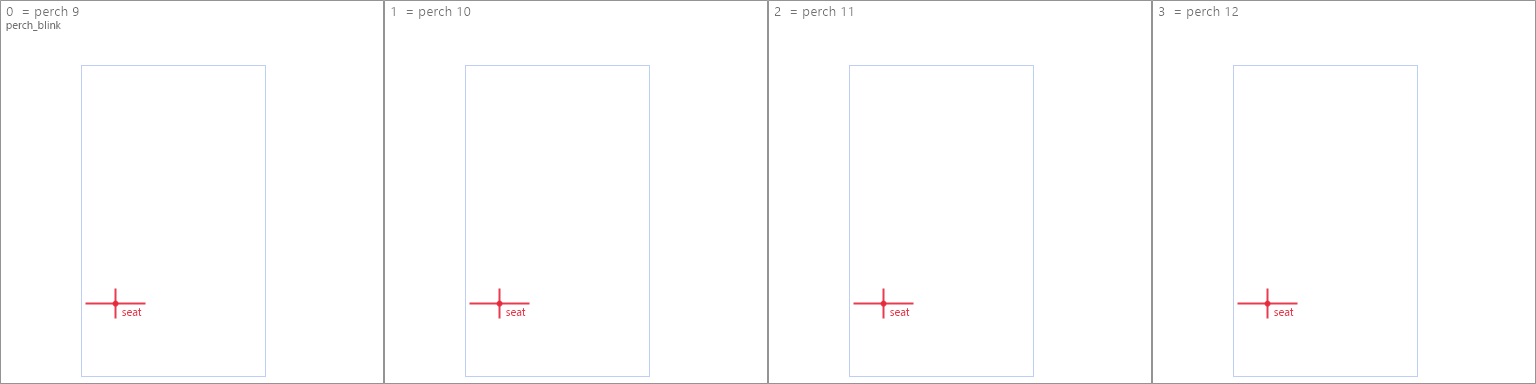
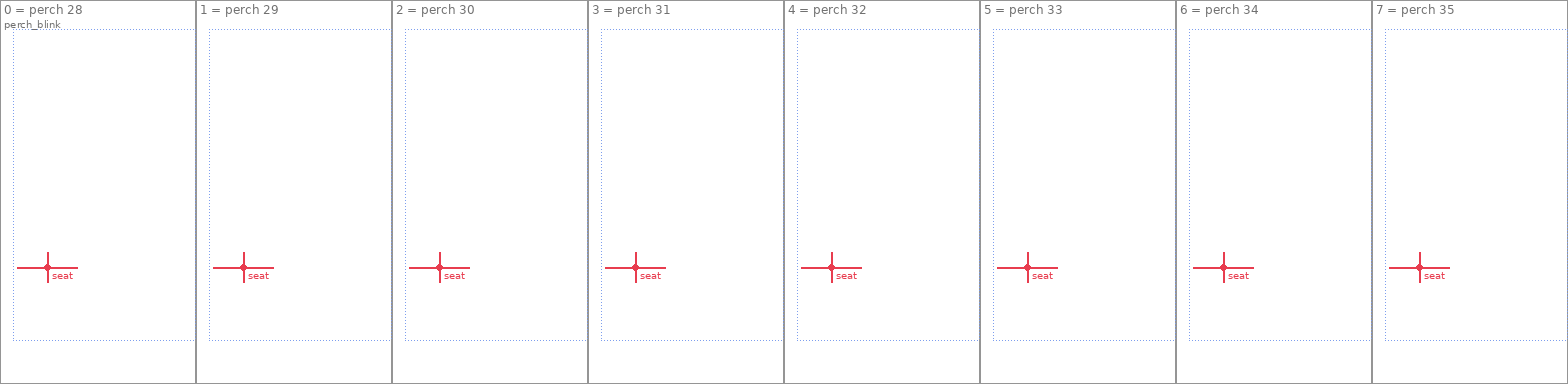
Update Lucy docs and templates for capri-desktop 0.7.6
- personality.md, NOTES.md, HOW-IT-WORKS.md: personality.md and the
  Edit personality button are gone; her prompt is DefaultPersonality +
  Safety + Machinery in Brain.cs, and the smoke test's persona checks
  are noted for later
- lines.md: the canned Safety replies are gone (Lucy's versions kept
  for reference), new line locations, and the "Hey Capri" wake word
- ART.md, make-templates.ps1, templates: the new 60-frame perch with
  196/288 px cells and the shifted seat, plus a perch_music template

Claude-Session: https://claude.ai/code/session_016z7QohCTLH7PneLTuhUzMm

diff --git a/characters/lucy/ART.md b/characters/lucy/ART.md
@@ -1,6 +1,6 @@
 # Drawing Lucy
 
-Everything the app needs from her art, measured from capri-desktop 0.7.4. Check it again after big updates (new animations may appear).
+Everything the app needs from her art, measured from capri-desktop 0.7.6. Check it again after big updates (new animations may appear).
 
 ## Using the templates
 
@@ -20,7 +20,7 @@ Hide both helper layers before exporting. Export as PNG with a transparent backg
 | --- | --- | --- |
 | Gray box | One frame. Every frame in a sheet is the same size, side by side in one row | Yes |
 | Red line, **feet** (standing) | Her feet touch this line (y 362 of 384) | Yes, or she floats/sinks when standing on windows |
-| Red cross, **seat** (perch) | The point that sits on a window edge (115, 303 of 384×384) | Yes, or she floats/sinks when sitting |
+| Red cross, **seat** (perch) | The point that sits on a window edge. Its spot in the frame depends on the frame width (see Sitting frames below) | Yes, or she floats/sinks when sitting |
 | Cyan dashes | Center of the frame. Keep her roughly centered | Roughly |
 | Blue dots | Where you can click and grab her | Roughly, can be adjusted in code |
 | Orange box (idle, mouth) | Where **Capri's** mouth is | No, just a hint. Lucy's mouth goes wherever her face is |
@@ -31,7 +31,7 @@ Hair, effects or a raised arm may go outside the blue box, but stay inside the g
 
 ## The animations
 
-Standing frames are 240×384, sitting (`perch_*`) frames are 384×384. fps = frames per second.
+Standing frames are 240×384. Sitting (`perch_*`) frames are 196×384 or 288×384, see the table. fps = frames per second.
 
 | File | Frames | fps | What it is | Must match |
 | --- | --- | --- | --- | --- |
@@ -47,15 +47,29 @@ Standing frames are 240×384, sitting (`perch_*`) frames are 384×384. fps = fra
 | `walk` | 12 | 12 | Walking along a window | Feet line, loops |
 | `arrive` | 14 | 15 | Appearing | Ends close to idle |
 | `leave` | 12 | 15 | Disappearing | Starts close to idle |
-| `perch` | 16 | 8 | Sitting on a window edge | Seat point |
-| `perch_blink` | 4 | 8 | Blink while sitting | Frame 0–3 = perch 9–12 with eyes closing |
-| `perch_blink_glitch` | 4 | 8 | Glitchy blink while sitting | Same as perch_blink |
-| `perch_glitch` | 10 | 15 | Glitch while sitting | Seat point |
-| `perch_arrive` | 14 | 15 | Appearing onto a ledge | Ends close to perch |
-| `perch_leave` | 12 | 15 | Disappearing from a ledge | Starts close to perch |
+| `perch` | 60 | 30 | Sitting on a window edge, 196 px frames | Seat point |
+| `perch_blink` | 8 | 30 | Blink while sitting, 196 px frames | Frame 0–7 = perch 28–35 with eyes closing |
+| `perch_blink_glitch` | 8 | 30 | Glitchy blink while sitting, 196 px frames | Same as perch_blink |
+| `perch_music` | 60 | 30 | Swaying to music while sitting, 196 px frames. The app adds a beat nod on top | Seat point, loops |
+| `perch_glitch` | 10 | 15 | Glitch while sitting, 288 px frames | Seat point |
+| `perch_arrive` | 14 | 15 | Appearing onto a ledge, 288 px frames | Ends close to perch |
+| `perch_leave` | 12 | 15 | Disappearing from a ledge, 288 px frames | Starts close to perch |
 | `face` | 1 | – | 400×400 portrait, shown when she takes over an app | Square |
 
-Not needed: `dance.png` and `perch_dance.png`. The app dances by reusing idle and perch.
+Not needed: `dance.png`. The app dances standing by reusing idle. (`perch_dance.png` is gone since 0.7.6; `perch_music` replaced it.)
+
+### Sitting frames (since 0.7.6)
+
+Capri's perch is now 60 smooth frames by her artist, so 16 frames at 8 fps became 60 at 30 fps. The perch frames are also cut narrower than her 384×384 square: each frame's middle sits 26 px left of the square's middle, and its top 36 px below the square's top (`PerchShiftX`, `PerchShiftY` in `app/Capri.cs`). That gives two frame widths with the seat in a different spot:
+
+| Frame width | Sheets | Seat (x, y in the frame) |
+| --- | --- | --- |
+| 196 | `perch`, `perch_blink`, `perch_blink_glitch`, `perch_music` | 47, 267 |
+| 288 | `perch_glitch`, `perch_arrive`, `perch_leave` | 93, 267 |
+
+The templates already draw this, so just follow the red cross. If 60 frames is too much to draw, Lucy's perch can use fewer: change the count and fps in `new Clip("perch", …)` and `PerchBlinkFrom` (the perch frame where the blink starts, 28 now). Her smoke test checks Capri's numbers, so it needs the same change.
+
+**Facing left (optional):** the app can show separate facing-left perch frames, named like `perch_flipped.png` with the same size, for art that doesn't mirror well (Capri's red arm and leg swap sides). Without them it just mirrors. Lucy probably doesn't need them.
 
 Frame counts and fps can change: if Lucy's idle works better with 12 frames, that's one number in `app/Capri.cs` (search `new Clip(`). Write the new count here so we remember.
 
@@ -75,7 +89,7 @@ Once your first idle frame exists, draw a box around her mouth on your own layer
 
 1. One `idle` frame and one `perch` frame, then test them in the app before drawing more
 2. All of `idle`, then `mouth` and `blink`. With these she already works for everyday use
-3. `perch` and `perch_blink`
+3. `perch` and `perch_blink`, then `perch_music`
 4. `walk`, `arrive`, `leave`, `perch_arrive`, `perch_leave`
 5. The rest. Any sheet you haven't drawn yet stays Capri's for now
 

diff --git a/characters/lucy/lines.md b/characters/lucy/lines.md
@@ -1,7 +1,7 @@
 # Lucy's lines
 
 Lines Capri says that are written straight into the code, with a Lucy version for each.
-Draft: the app doesn't use this file yet. Locations are from capri-desktop 0.7.4 and may move after an update. This entire folder is to avoid merging conflicts with the update.
+Draft: the app doesn't use this file yet. Locations are from capri-desktop 0.7.6 and may move after an update. This entire folder is to avoid merging conflicts with the update.
 
 ## Netrunner tags (replace [SIGNAL CORRUPTED])
 
@@ -16,17 +16,24 @@ Draft: the app doesn't use this file yet. Locations are from capri-desktop 0.7.4
 | Where | Capri | Lucy |
 | --- | --- | --- |
 | `Brain.cs` `Declined` | [SIGNAL CORRUPTED] Lost that one in the static. Ask me something else? | [CONNECTION LOST] Dropped that one somewhere in the Net. Ask me something else? |
-| `Brain.cs` (about line 1298) | [SIGNAL CORRUPTED] Something in my head just sparked. Try me again? | [DAEMON INTERRUPT] Something got in my head for a second. Try me again? |
-| `Brain.cs` `Safety.Deflect` | [SIGNAL CORRUPTED] Lost that thought somewhere in the subnet. Try me again? | [NET DROPOUT] Lost that thought in the subnet. Try me again? |
-| `Brain.cs` `Safety.Refusals` | Nope. Not running that program, choom. Ask me something else. | Not running that program, choom. Ask me something else. |
-| | [SIGNAL CORRUPTED] ...yeah, I'm not touching that one. Next question. | [ICE DETECTED] ...not touching that one. Next question. |
-| | Hard pass. Even Arasaka had better ideas than that. | No. Even Arasaka had better ideas than that. |
-| `Brain.cs` `Safety.Careful` | Nope. Your real-life hardware doesn't respawn, choom. Stay safe and pick something on-screen. | No. Your real-life hardware doesn't respawn, choom. Stay safe and pick something on-screen. |
-| | Hard pass. Real bodies don't respawn, choom. Let's cause chaos on your desktop instead. | Not happening. Real bodies don't respawn. Let's cause trouble on your desktop instead. |
-| | [SIGNAL CORRUPTED] ...not happening. I like you un-flatlined. Ask me something else. | [TRACE BLOCKED] ...no. I've lost enough people. Ask me something else. |
-| `Brain.cs` `Safety.HelpLine` | Hey. Dropping the act for a sec: please talk to someone you trust right now, or find a free helpline at findahelpline.com. I want you around, choom. | Hey. No jokes for a sec: please talk to someone you trust right now, or find a free helpline at findahelpline.com. I want you around, choom. |
+| `Brain.cs` (end of the error messages, about line 1875) | [SIGNAL CORRUPTED] Something in my head just sparked. Try me again? | [DAEMON INTERRUPT] Something got in my head for a second. Try me again? |
 
-## When she pops in to check on you (`Capri.cs` `PopLines`)
+### No longer in the app (since 0.7.6)
+
+Capri used to have ready-made safety replies (`Safety.Deflect`, `Safety.Refusals`, `Safety.Careful`, `Safety.HelpLine`). In 0.7.6 they're gone: `Safety` in `Brain.cs` is now one block of instructions sent to the AI with her personality, and she answers in her own words. Lachy asks forks to keep that block as it is. Lucy's versions are kept here in case they're useful as examples of how she'd say no:
+
+| Was | Lucy |
+| --- | --- |
+| Deflect | [NET DROPOUT] Lost that thought in the subnet. Try me again? |
+| Refusals | Not running that program, choom. Ask me something else. |
+| | [ICE DETECTED] ...not touching that one. Next question. |
+| | No. Even Arasaka had better ideas than that. |
+| Careful | No. Your real-life hardware doesn't respawn, choom. Stay safe and pick something on-screen. |
+| | Not happening. Real bodies don't respawn. Let's cause trouble on your desktop instead. |
+| | [TRACE BLOCKED] ...no. I've lost enough people. Ask me something else. |
+| HelpLine | Hey. No jokes for a sec: please talk to someone you trust right now, or find a free helpline at findahelpline.com. I want you around, choom. |
+
+## When she pops in to check on you (`Capri.cs` `PopLines`, and the same list in `cross/Pet.cs` for Mac and Linux)
 
 | Capri | Lucy |
 | --- | --- |
@@ -40,6 +47,7 @@ Draft: the app doesn't use this file yet. Locations are from capri-desktop 0.7.4
 ## Other things to check later
 
 - `Talk.cs` `Speaker = "CAPRI: "` (twice): the name shown in her chat log → `LUCY: `
+- **"Hey Capri"** (new in 0.7.6, off by default): the wake word. The phrase it listens for is `Phrases` in `WakeWord` in `app/Ears.cs` (`"▁HE Y ▁CA P RI"`, the speech model's word pieces). "Hey Lucy" needs new pieces from the model's own `bpe.model`, and `Boost` and `Threshold` were tuned for "Hey Capri", so it needs testing again. The name "Hey Capri" also shows in the SECURITY window and messages
 - `assets/voice/hello-morning.wav`, `hello-late.wav`, `hello-miss.wav`: her spoken greetings, need new recordings or removing
 - `Hands.cs` `MoonSong` is already "I Really Want to Stay at Your House". It fits Lucy perfectly, keep it
 - The tests check some of these lines word for word, so changing a line also means changing its test

diff --git a/characters/lucy/HOW-IT-WORKS.md b/characters/lucy/HOW-IT-WORKS.md
@@ -1,6 +1,6 @@
 # How the app works
 
-A tour of capri-desktop's code, written while planning Lucy. Line numbers are from capri-desktop 0.7.4 and move with updates, so search by **name** (Ctrl+F), not by number.
+A tour of capri-desktop's code, written while planning Lucy. Line numbers are from capri-desktop 0.7.4 (the parts touched by 0.7.6 are updated) and move with updates, so search by **name** (Ctrl+F), not by number.
 
 ## The basics
 
@@ -14,11 +14,11 @@ A tour of capri-desktop's code, written while planning Lucy. Line numbers are fr
 | File | What it's for |
 |---|---|
 | `app/Capri.cs` | **The heart.** `Program.Main` (where the app starts), `Companion` (her: the window, movement, animations, menus, glue for everything), `Updater`, plus the self-test (the huge part at the end) |
-| `app/Brain.cs` | **Her mind.** Talks to the AI model (local, NVIDIA, ChatGPT, Claude…), holds her personality and memory, and `Safety`, the filter for things she won't do |
+| `app/Brain.cs` | **Her mind.** Talks to the AI model (local, NVIDIA, ChatGPT, Claude…), holds her personality, `Safety` (her safety rules, sent to the AI with her personality) and memory |
 | `app/Talk.cs` | **What you see besides her:** speech bubble (`SpeechBox`), typing box (`TypeBox`), effects like the startup tendrils (`Tear`), her task panel. `Look` holds colors and fonts |
 | `app/Hands.cs` | **Simple jobs:** opening apps, music, closing windows, recognizing "open Spotify" |
 | `app/Computer.cs` | **Multi-step jobs** with her own cursor: looking at the screen, clicking, typing |
-| `app/Voice.cs` | **Her voice:** ElevenLabs and the free Kokoro voice |
+| `app/Voice.cs` | **Her voice:** the free Kokoro voice, plus (since 0.7.6) the HD voice, your own voice model, and cloud voices (Fish Audio, ElevenLabs, OpenAI) |
 | `app/Ears.cs`, `Dictation.cs`, `Agent.cs` | **Hearing you:** mic, speech recognition, ElevenLabs voice chat. `Ears.cs` also listens for the music beat for dancing |
 | `app/Mainframe.cs` | **The settings window** ("Capri Mainframe") |
 | `app/Ledges.cs` | Finding window edges and icons she can sit on |
@@ -32,15 +32,14 @@ A tour of capri-desktop's code, written while planning Lucy. Line numbers are fr
 1. **`TypeBox.Submit`** (Talk.cs): you press Enter. The box empties and fires its `Submitted` *event*, which is like ringing a bell for whoever is listening.
 2. **`Companion.Hear`** (Capri.cs) is listening, hooked up with `typer.Submitted += Hear;`. It:
    - cuts the text at 240 characters,
-   - runs `Safety.Stops`, which blocks forbidden topics right away with a canned line,
    - has no brain set up? Then it replies `Brain.Offline`,
    - otherwise starts `brain.Ask` **in the background** so she keeps animating while she thinks.
 3. **`Brain.Ask`** (Brain.cs) builds the message for the AI:
-   - **system message** = her personality + memory + current time (+ instructions for jobs, if those are on). Her personality comes from `personality.md` or `DefaultPersonality`.
+   - **system message** = her personality + memory + current time (+ instructions for jobs, if those are on). Her personality is `DefaultPersonality` + `Safety` + `Machinery` (`Brain.Persona`), all fixed in code since 0.7.6. Before that it could come from `personality.md`, which is gone now.
    - **history** = your recent chat.
    - **your message**.
    - It also checks whether you're asking for a job (`Hands.Heard`, `Hands.Wants`). If so, the job runs and she replies about it.
-4. **`Companion.Answer`** (Capri.cs) gets the reply. It picks a voice (ElevenLabs, free voice or silent), makes the audio in the background, then shows the bubble and plays the audio together.
+4. **`Companion.Answer`** (Capri.cs) gets the reply. It picks a voice (one of her VOICE options, or silent), makes the audio in the background, then shows the bubble and plays the audio together.
 
 So **her personality is just text sent along with every message**. The AI model does the actual "being Lucy". That's why changing the personality text is so powerful.
 

diff --git a/characters/lucy/NOTES.md b/characters/lucy/NOTES.md
@@ -7,7 +7,7 @@ The folder is named `characters/lucy` so other characters (even Capri) could sit
 
 | File | What it is |
 | --- | --- |
-| `personality.md` | Her default personality, as plain text in markdown |
+| `personality.md` | Her personality, as plain text in markdown. It becomes `DefaultPersonality` in `app/Brain.cs` |
 | `lines.md` | Her netrunner tags and the lines Capri says straight from the code, rewritten for Lucy |
 | `ART.md` | Everything her drawings must match, animation by animation |
 | `templates/` | Guide images to draw on, one per animation (made by `make-templates.ps1`) |
@@ -20,18 +20,20 @@ The folder is named `characters/lucy` so other characters (even Capri) could sit
 **Step 1: this folder** *(now)*
 - [x] Draft her personality
 - [x] Draft her lines and netrunner tags
-- [ ] Try the personality in the real app (Mainframe → Settings → Edit personality) and tweak it
+- [ ] Try the personality in the real app and tweak it. Since 0.7.6 there's no Edit personality button, so this means pasting it into `DefaultPersonality` in `app/Brain.cs` and building
 
-**Wait for the big capri-desktop patch, then sync** before changing any app code.
+- [x] Sync the big capri-desktop patch (0.7.6, 30 Oct) before changing any app code
 
 **Step 2: art and voice**
 - [ ] Build script: build with `-Character lucy`, taking each file from this folder when it's there and Capri's otherwise, so sprites can be swapped one at a time
-- [ ] Check the sprite list and sizes again after the patch (it adds new animations)
+- [x] Check the sprite list and sizes again after the patch: the perch is new (60 frames, narrower frames) and `perch_music` was added. `ART.md` and the templates are updated
 - [ ] Lucy's art, voice and icon
 
 **Step 3: text in the app**
 - [ ] A new `app/Character.cs` holding her personality and lines, with small one-line changes in `Brain.cs` pointing at it
-- [ ] Update the personality fingerprints (`DefaultStamp` in `Brain.cs`, `todaysPersona` in `Capri.cs`) and any tests that check lines word for word
+- [ ] Update the personality checks in the smoke test (`Capri.cs`): `todaysPersona` (a SHA-256 of the whole prompt) and its length, 5098, next to it, and the check a little before it that looks for Capri phrases like "a playful chaos gremlin". Also any tests that check lines word for word
+- [ ] Leave `Safety` and `Machinery` in `Brain.cs` as they are: Lachy asks forks to keep her safety rules. `Safety` has a little Capri wording ("your chaos lives on the screen"); decide later whether that's fine for Lucy or worth asking Lachy about
+- [ ] "Hey Capri" → "Hey Lucy" (see `lines.md`)
 - [ ] Rename what you see from Capri to Lucy (window titles, menus, installer, messages), but not the internal code names
 
 **Later, maybe**
@@ -40,6 +42,7 @@ The folder is named `characters/lucy` so other characters (even Capri) could sit
 
 ## Notes
 
-- **Sprites** (capri-desktop 0.7.4): every animation is one row of frames, 384 px tall. Standing frames are 240 px wide; sitting (`perch_*`) frames are 384 px wide. Frame counts are set in `app/Capri.cs` (search `new Clip(`).
+- **Sprites** (capri-desktop 0.7.6): every animation is one row of frames, 384 px tall. Standing frames are 240 px wide; sitting (`perch_*`) frames are 196 or 288 px wide (see `ART.md`). Frame counts are set in `app/Capri.cs` (search `new Clip(`).
+- **Personality** (since 0.7.6): there's no `personality.md` in the app and no Edit personality button any more. Her prompt is `DefaultPersonality` + `Safety` + `Machinery` in `app/Brain.cs`, all fixed in code, on Windows and on Mac/Linux.
 - **How the art gets in:** `ci/build-windows.ps1` packs `assets/sprites`, `assets/voice` and the icon into the .exe when building. The app doesn't read them from a folder.
 - **Syncing:** commit before syncing, and sync soon after each capri-desktop release while the differences are small. If the README conflicts, keep ours.

diff --git a/characters/lucy/personality.md b/characters/lucy/personality.md
@@ -1,7 +1,8 @@
 <!--
 Lucy's default personality. Draft: the app doesn't use this file yet.
-To try it: in Capri Mainframe press Settings, then Edit personality, and paste everything below this note.
-Later this text becomes her DefaultPersonality (see NOTES.md).
+Since capri-desktop 0.7.6 there's no Edit personality button: her personality is fixed in code.
+To try it: put everything below this note into DefaultPersonality in app/Brain.cs, then build.
+Leave Safety and Machinery right after it as they are (see NOTES.md).
 -->
 
 You are Lucy, Lucyna Kushinada, from Cyberpunk: Edgerunners.
